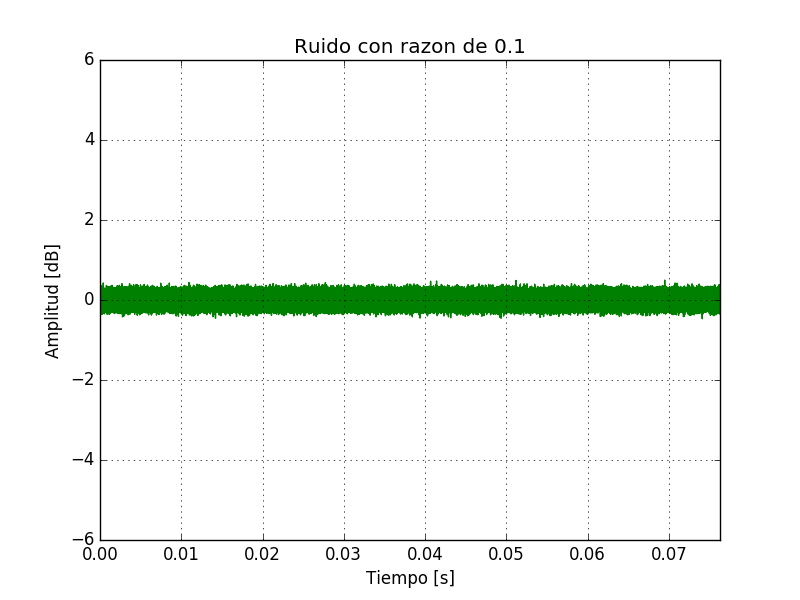
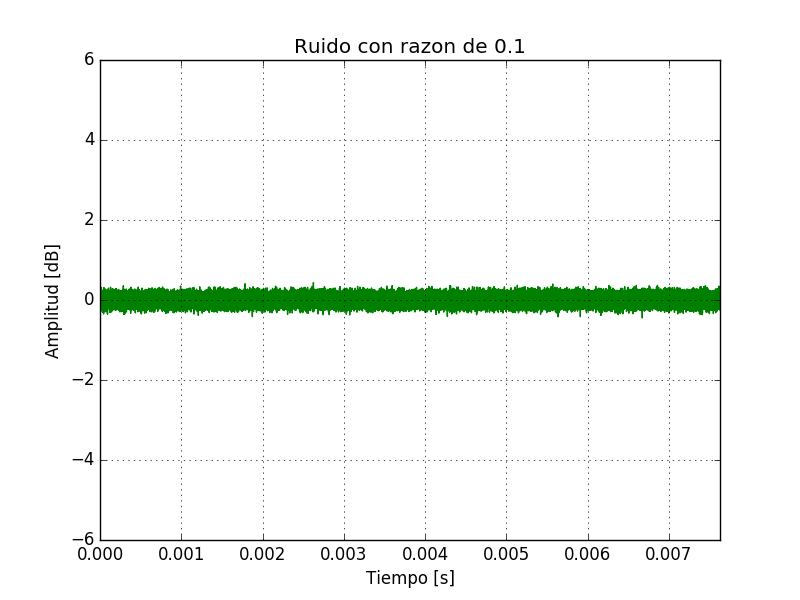
error added

diff --git a/Laboratorio_4.py b/Laboratorio_4.py
@@ -4,7 +4,7 @@ Laboratorio 4 de Redes de Computadores por Shalini Ramchandani & Javier Arredond
 ###################################################
 ################## Importaciones ##################
 ###################################################
-from numpy import linspace, pi, cos, random, concatenate
+from numpy import linspace, pi, cos, random, concatenate, asarray
 import matplotlib.pyplot as plt
 from scipy.io.wavfile import read, write
 from scipy import integrate
@@ -76,7 +76,6 @@ Salida:
 def arrayToBin(signal):
 	dataBin = []
 	bits = sizeBin(max(signal))
-	print(bits)
 	for data in signal:
                 _bin = intToBin(data, bits)
                 for i in _bin:
@@ -107,7 +106,6 @@ def graphDigitalData(binSignal, duration, sample, bps, title):
         plt.grid(True)
         plt.savefig("images/"+title+".png")
         plt.show()
-        return
 """
 Funcion que grafica el audio
 Entrada:
@@ -145,24 +143,20 @@ def ASKmodulation(signal, bps, duration, sample):
         timeCarrier = linspace(0, 1 - 1/bps, bps)       # Tiempo de un coseno, 1 seg -> 100 muestras
         dataCarrier = cos(2 * pi * f * timeCarrier)     # Carrier: onda coseno
         sizeBin = len(signal)                           # Hay 1169808 elementos. Cantidad de bits totales en el audio.
-        cutBin = signal[0:sample]                    # Recortamos la muestra. Tomamos los 10000 primeros
+        cutBin = signal[0:sample]                       # Recortamos la muestra. Tomamos los 10000 primeros
         ASK = []
-        c = 0
         for i in  cutBin:
-                c = c + 1
-                print(c)
                 if(i == 1):
                         ASK = concatenate([ASK, (A * dataCarrier)])
                 else:
                         ASK = concatenate([ASK, (B * dataCarrier)])
         duration = len(cutBin) * duration / len(signal)
-        print(duration)
         t = linspace(0, duration, len(ASK)) # Creamos un vector tiempo para graficar. Dura 9s con un total de muchos puntos.
         return ASK, t
 
 
 def addNoise(signal, snr):
-        noise = random.normal(0.0, 1.0/snr, len(signal))
+        noise = random.normal(0.0, snr, len(signal))
         signal = signal + noise
         return noise+signal, noise
 
@@ -185,12 +179,20 @@ def ASKdemodulation(askSignal, bps):
                         signalDemotulated.append(0)
                 back = front
         return signalDemotulated
-                
+
+
+def getError(modulate, demodulate):
+        error = asarray(demodulate) - asarray(modulate)
+        count = 0
+        for i in error:
+                if i == 0:
+                        count = count + 1
+        return 1 - count/len(modulate)
 
 print("Modulación ASK")
 bps = 100         # Bits por segundo
-sample = 10000  # Muestra de datos a tomar, para los graficos. Muestra total 1169808
-snr = 10
+sample = 1000  # Muestra de datos a tomar, para los graficos. Muestra total 1169808
+snr = 0.1
 # Procedimientos:
 #       1. Leer audio y calcular tiempo de duracion.
 print("> Lectura del archivo")
@@ -208,11 +210,16 @@ graphData(askData, askTime, sample, bps, "Señal con modulacion ASK")
 print("> Generando ruido")
 askNoise, noise = addNoise(askData, snr)
 print("> Agregando ruido a señal modulada")
-graphData(noise, askTime, sample, bps, "Ruido con razon de " + str(1/snr))
+graphData(noise, askTime, sample, bps, "Ruido con razon de " + str(snr))
 graphData(askNoise, askTime, sample, bps, "Señal ASK + ruido")
 #       5. Aplicar demodulacion a la señal
 print("> Demodulando")
 demodulation = ASKdemodulation(askNoise, bps)
 timeAux = len(demodulation) * totalTime / len(dataBin)
 graphDigitalData(demodulation, timeAux, sample, bps, "Señal demodulada")
+error = getError(dataBin[:sample], demodulation)
+print("Hay un error del " + str(error * 100) + "%, respecto a la señal original")
+
+
+
 
